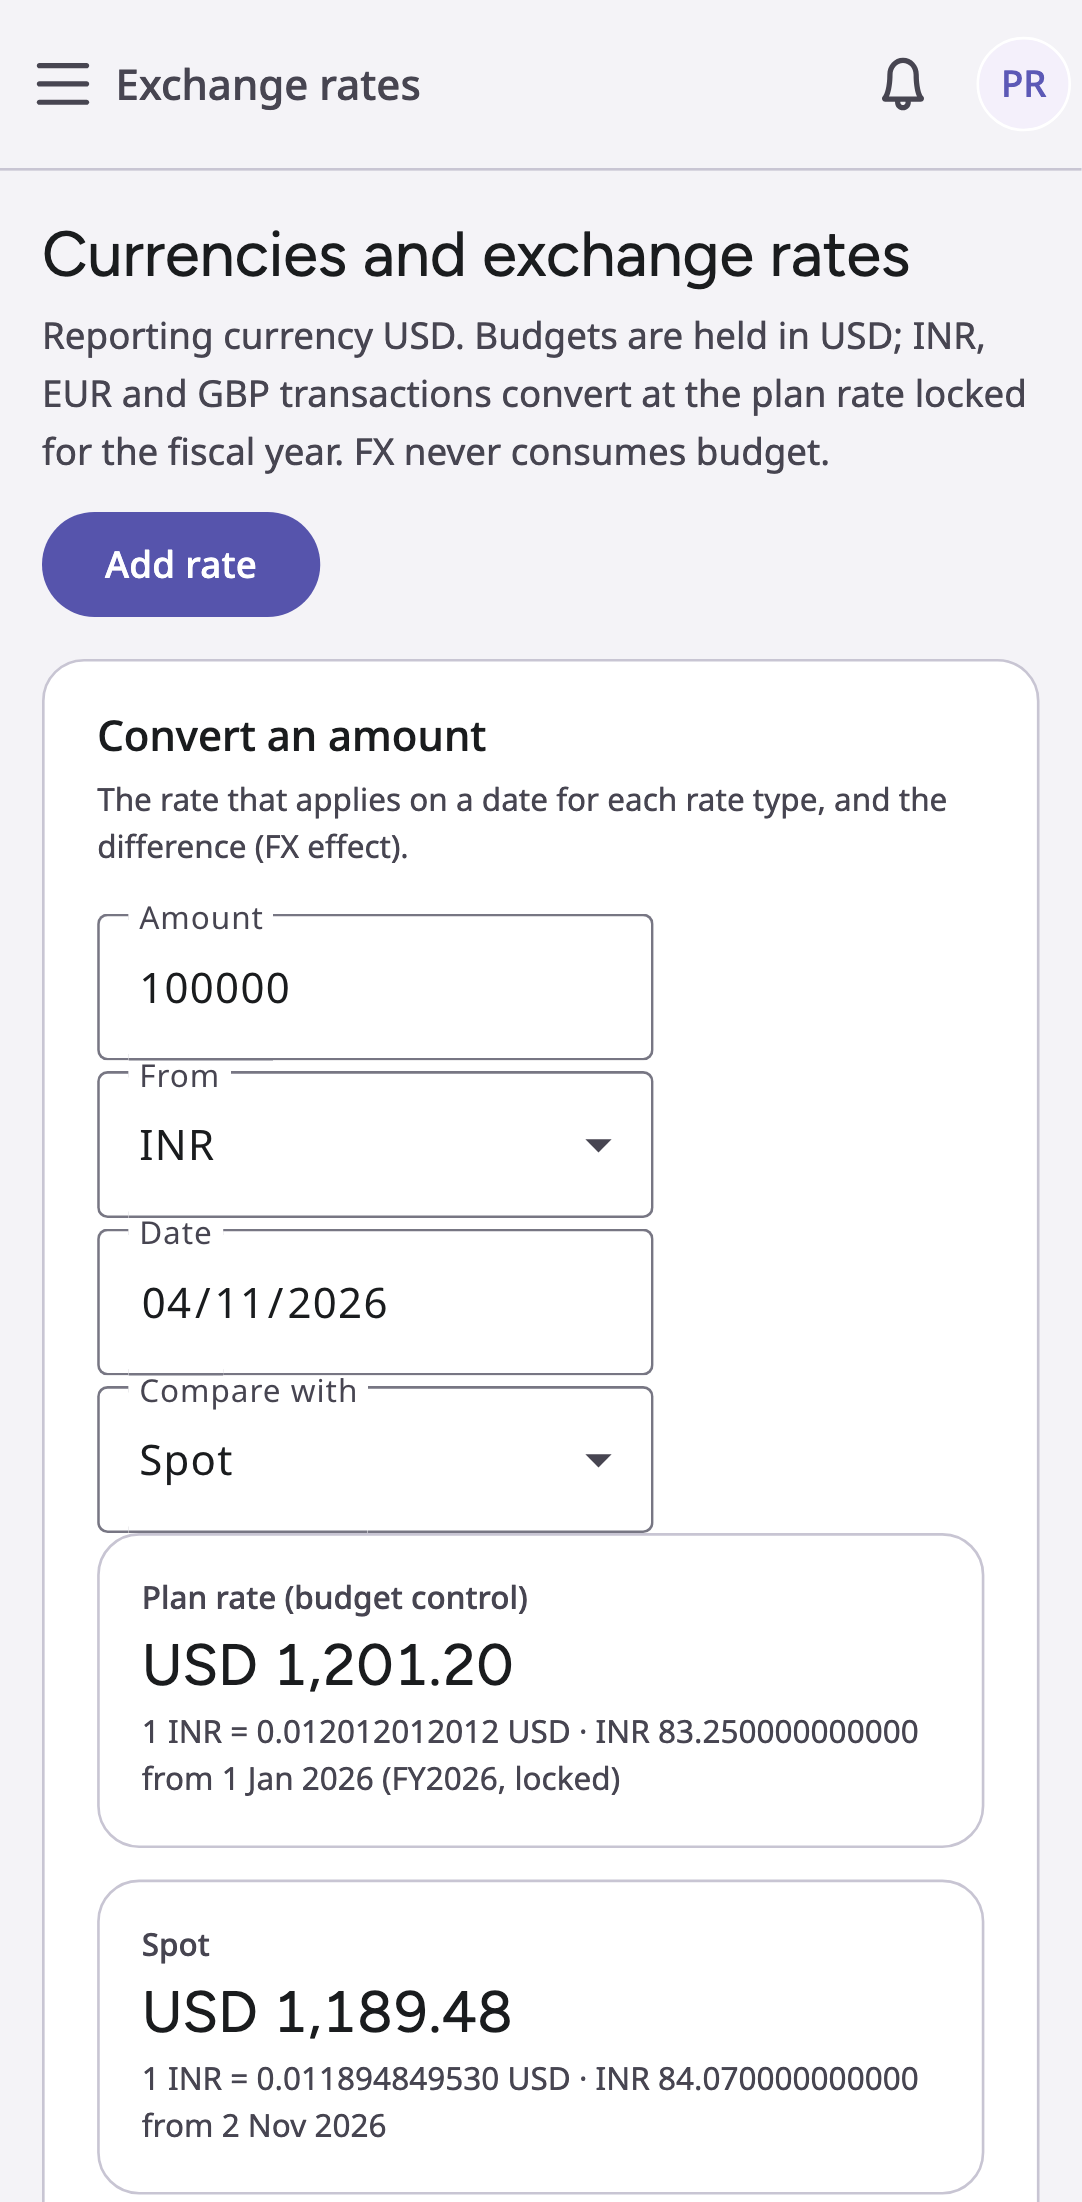
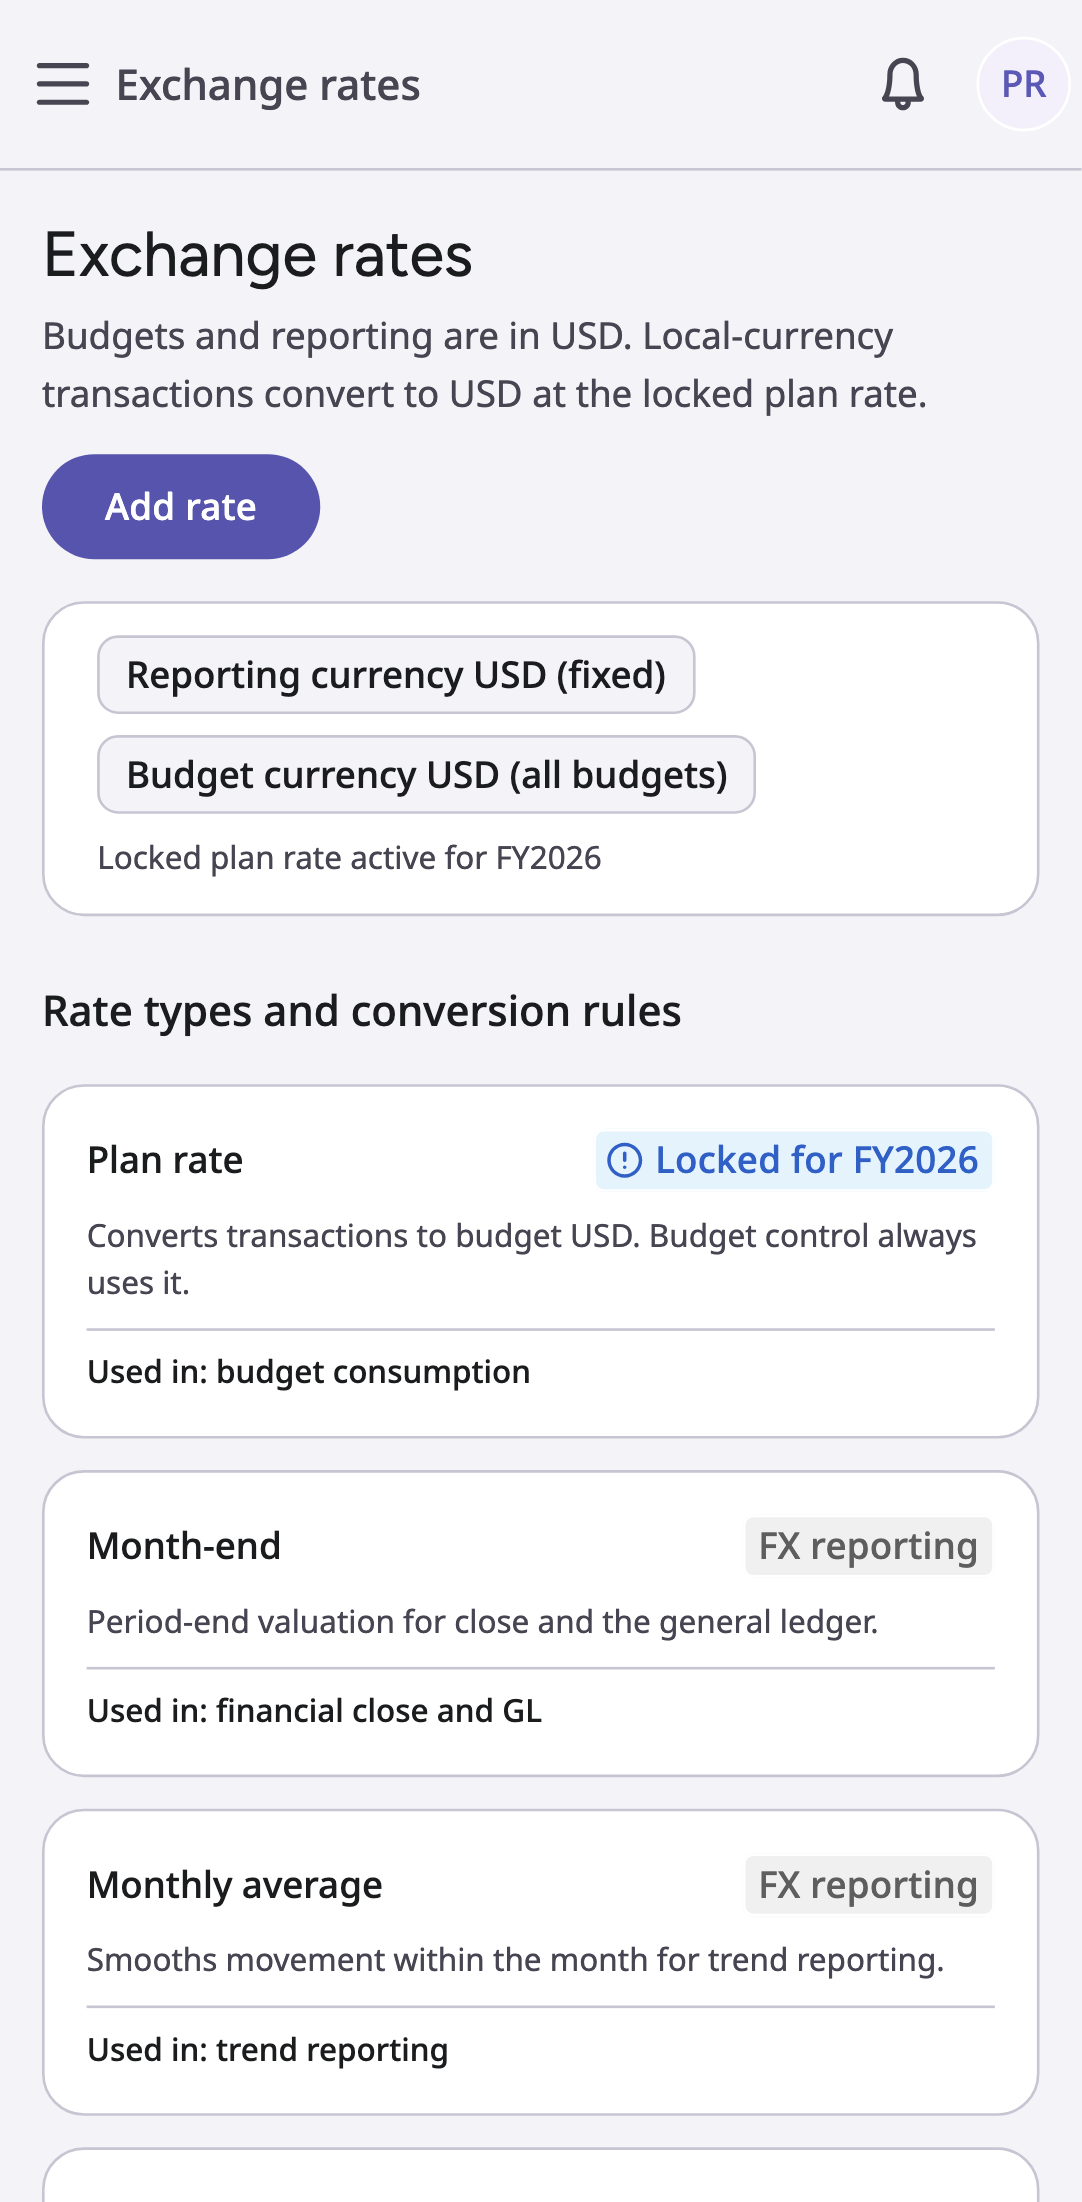
docs(evidence): design parity for 22c, 107 and 108 and refreshed captures
Side-by-side images with the proposed Stitch designs, accepted deviations for design review, a third visual QA iteration on a fresh seed, and implementation notes in the three design specs.

diff --git a/evidence/phase-03/visual-qa/design-parity/design-parity.md b/evidence/phase-03/visual-qa/design-parity/design-parity.md
@@ -1,0 +1,42 @@
+# Design parity — Phase 3 screens with Stitch designs
+
+Three Phase 3 screens gained proposed Stitch designs on main during this phase (UX core set part 2, `docs/ux/review-log.md`: "proposed - awaiting user review"; implementation may build from proposed designs). Each image below is the design (left) next to the built page on the local stack with the deterministic seed (right), desktop, light theme. The other ten Phase 3 pages have no design yet.
+
+## 022c HR headcount import
+
+![022c side by side](022c-hr-headcount-import--side-by-side.png)
+
+Matches: page purpose, step indicator (Upload, Review, Apply), file summary with effective date, KPI cards (rows read, valid lines, headcount with change, rows with errors in the error tone), "Headcount change by location" with legal entity, previous, new, change and a total row, an errors panel listing each bad row, Download template and Import history, and a footer with the audit note and Back / Apply import.
+
+Accepted deviations (documented for design review):
+
+- No "Map columns" step: Phase 3 uses one fixed CSV template (Download template).
+- No per-head allocation change column or "recalculate per-head allocations" toggle: per-head rates and true-ups are Phase 4.
+- No "skip the error rows and import the rest": imports are all-or-nothing (invariant 27); whether partial imports should be allowed is an open question for the design review.
+- No new-hire and leaver cards: the HR file carries counts per location and team, not employee rows.
+- No ERP sync note: integrations are Phase 12.
+
+## 107 Exchange rates
+
+![107 side by side](107-exchange-rates--side-by-side.png)
+
+Matches: title and subtitle, reporting and budget currency chips with the locked plan-rate note, the four rate-type tiles with their tags and uses, the governance banner, and "Rates per 1 USD — FY2026" with plan (locked), latest month-end, latest monthly average, source and updated.
+
+Accepted deviations:
+
+- One "Add rate" action instead of "Import rates" and "Add month-end rates" (rate feeds are Phase 12).
+- The FX effect card is an interactive conversion (amount, currency, date, comparison type) instead of a fixed October example with a distribution bar; it shows plan valuation, the other valuation and the FX effect, reported separately.
+- A plan-rate lock card (screen 107a) and a filterable rate history follow the matrix; export is Phase 10.
+
+## 108 Fiscal calendar
+
+![108 side by side](108-fiscal-calendar--side-by-side.png)
+
+Matches: title and subtitle naming the entities, the closing warning banner, the fiscal-year card with its date range, the periods table (period, start, end, status, changed by, actions with "Close period" as the primary action), and the right column with "Plan rate and year-end" (lock date, link to exchange rates, next year) and "Recent changes" from the audit trail with hashes.
+
+Accepted deviations:
+
+- A calendar picker replaces the "Calendar months / 4-4-5 / 52/53-week" segmented control: each legal entity's calendar is its own record (group Jan-Dec, India Apr-Mar, UK 4-4-5), so the picker switches calendars rather than views.
+- No per-row "View audit" link; the audited changes appear in "Recent changes".
+- No rollover-policy line (Phase 4 rollover policies, Phase 11 year-end).
+- No separate "Future" status: periods are Open until closed (the domain has Open, Soft-closed, Closed, Locked).

diff --git a/evidence/phase-03/README.md b/evidence/phase-03/README.md
@@ -2,7 +2,7 @@
 
 - Commit: see `gate-summary.txt` (full gate on branch `feat/p3-org-master-data`, rebased on main after Phase 2 and the ledger hardening), reviewed 2026-11-04
 - Scope: plan todo `p3-org-master-data` — org hierarchy with effective dating, legal entities, cost centers, fiscal calendar engine and period statuses, currencies and rate types with plan-rate lock, GL accounts and category-to-GL mapping, reason codes, vendor master, seeded DoA table, HR headcount import, scope-based visibility, CSV import. Screens 6, 7, 9, 22c, 33-42, 102a, 104a, 106, 106a-c, 107, 107a, 108, 108a (13 pages). Journeys in `apps/web-e2e/src/org` and `apps/web-e2e/src/finance-admin`.
-- Result: passed with follow-ups — every gate mode is green and every P3 gate item is proven by API scenarios and journeys; the screens have no Stitch designs yet and await design review.
+- Result: passed with follow-ups — every gate mode is green and every P3 gate item is proven by API scenarios and journeys; 22c, 107 and 108 follow their proposed Stitch designs with documented deviations, and the other ten pages await designs.
 
 ## Gates
 
@@ -61,7 +61,7 @@ Rows 23-28 added to `docs/testing/invariant-scenarios.md` (effective dating, org
 
 ## Known issues and follow-ups
 
-- Phase 3 screens need Stitch designs and design review; then add them to `apps/web-e2e/visual/screens.json` with seed-only lists.
+- Ten Phase 3 pages need Stitch designs; all 13 need design review (22c, 107 and 108 deviations in `visual-qa/design-parity/design-parity.md`); then add them to `apps/web-e2e/visual/screens.json` with seed-only lists.
 - Phase 4: the seeded budget tree still holds the India and Europe region budgets in INR and EUR (Phase 1 data); move them to USD per the November 2026 decision when Phase 4 reseeds budgets. Per-head drivers read `GET /api/org/headcount` (latest snapshot by location and team, prorated in thousandths).
 - Phase 5: enforce the seeded DoA matrix in approval routing (lookup logic and boundaries already proven); intercompany policy screens.
 - Phase 6: actuals convert with `lookupExchangeRate`-equivalent selection (plan for control, actual rate stored for the FX effect).
@@ -71,7 +71,7 @@ Rows 23-28 added to `docs/testing/invariant-scenarios.md` (effective dating, org
 ## Open UX questions
 
 - 034 Organization chart: is the indented tree enough, or is a graphical chart wanted?
-- 022c Headcount: should team rows compare with the previous snapshot when that snapshot was location-level only (they show the full count as change today)?
+- 022c Headcount: should imports skip invalid rows (design) or stay all-or-nothing (current invariant 27)? Should team rows compare with a previous snapshot that was location-level only (they show the full count as change today)?
 
 ## Not in this pack
 

diff --git a/evidence/phase-03/visual-qa/report.md b/evidence/phase-03/visual-qa/report.md
@@ -1,6 +1,6 @@
 # Phase 3 visual QA
 
-Scope: the 13 Phase 3 pages (inventory screens 6, 7, 9, 22c, 33-42, 102a, 104a, 106, 106a-c, 107, 107a, 108, 108a) at desktop (1440x900), tablet (834x1112) and mobile (Pixel 7), light theme only (dark theme deferred), on the local stack with the deterministic seed, signed in as the role that owns each page. No Stitch design exists for these screens, so there is no design-parity comparison; they were built from `docs/ux/design-system.md` with Satori components first and Angular Material second and await design review.
+Scope: the 13 Phase 3 pages (inventory screens 6, 7, 9, 22c, 33-42, 102a, 104a, 106, 106a-c, 107, 107a, 108, 108a) at desktop (1440x900), tablet (834x1112) and mobile (Pixel 7), light theme only (dark theme deferred), on the local stack with the deterministic seed, signed in as the role that owns each page. During the phase, proposed Stitch designs landed on main for 22c, 107 and 108; those three pages were reworked to follow them and compared side by side (`design-parity/design-parity.md`). The other ten pages have no design yet; they were built from `docs/ux/design-system.md` with Satori components first and Angular Material second and await design review.
 
 ## Iterations
 

diff --git a/docs/ux/screens/022c-hr-headcount-import.md b/docs/ux/screens/022c-hr-headcount-import.md
@@ -54,3 +54,7 @@ Desktop and tablet only for import; mobile shows a read-only summary. Tables hav
 
 - Numbering: the inventory lists per-head allocation as 22a, but its design folder is `024a-per-head-driver-allocation`; this screen uses the inventory number 22c. Rename 024a to 022a?
 - Is the per-head rate monthly or per event? Assumed monthly for the impact column.
+
+## Implementation
+
+Built in Phase 3 at `/org/headcount` (Import HR file). Deviations from this design and the questions for review: `evidence/phase-03/visual-qa/design-parity/design-parity.md`.

diff --git a/docs/ux/screens/107-exchange-rates.md b/docs/ux/screens/107-exchange-rates.md
@@ -51,3 +51,7 @@ Tables scroll horizontally on tablet; mobile read-only. Rates use tabular numera
 ## Assumptions and open questions
 
 - Stitch added helper copy on rate tiles and a "CC-9900" variance reserve line; those are not decisions. FX effect posting target is open.
+
+## Implementation
+
+Built in Phase 3 at `/finance/rates`. Deviations from this design: `evidence/phase-03/visual-qa/design-parity/design-parity.md`.

diff --git a/docs/ux/screens/108-fiscal-calendar.md b/docs/ux/screens/108-fiscal-calendar.md
@@ -51,3 +51,7 @@ Mobile read-only list of periods with status. Status tags use icon plus text.
 ## Assumptions and open questions
 
 - One calendar for all entities (as designed) or per entity? The plan allows variants per tenant; assumed one per company for now.
+
+## Implementation
+
+Built in Phase 3 at `/finance/periods`. Deviations from this design: `evidence/phase-03/visual-qa/design-parity/design-parity.md`.
